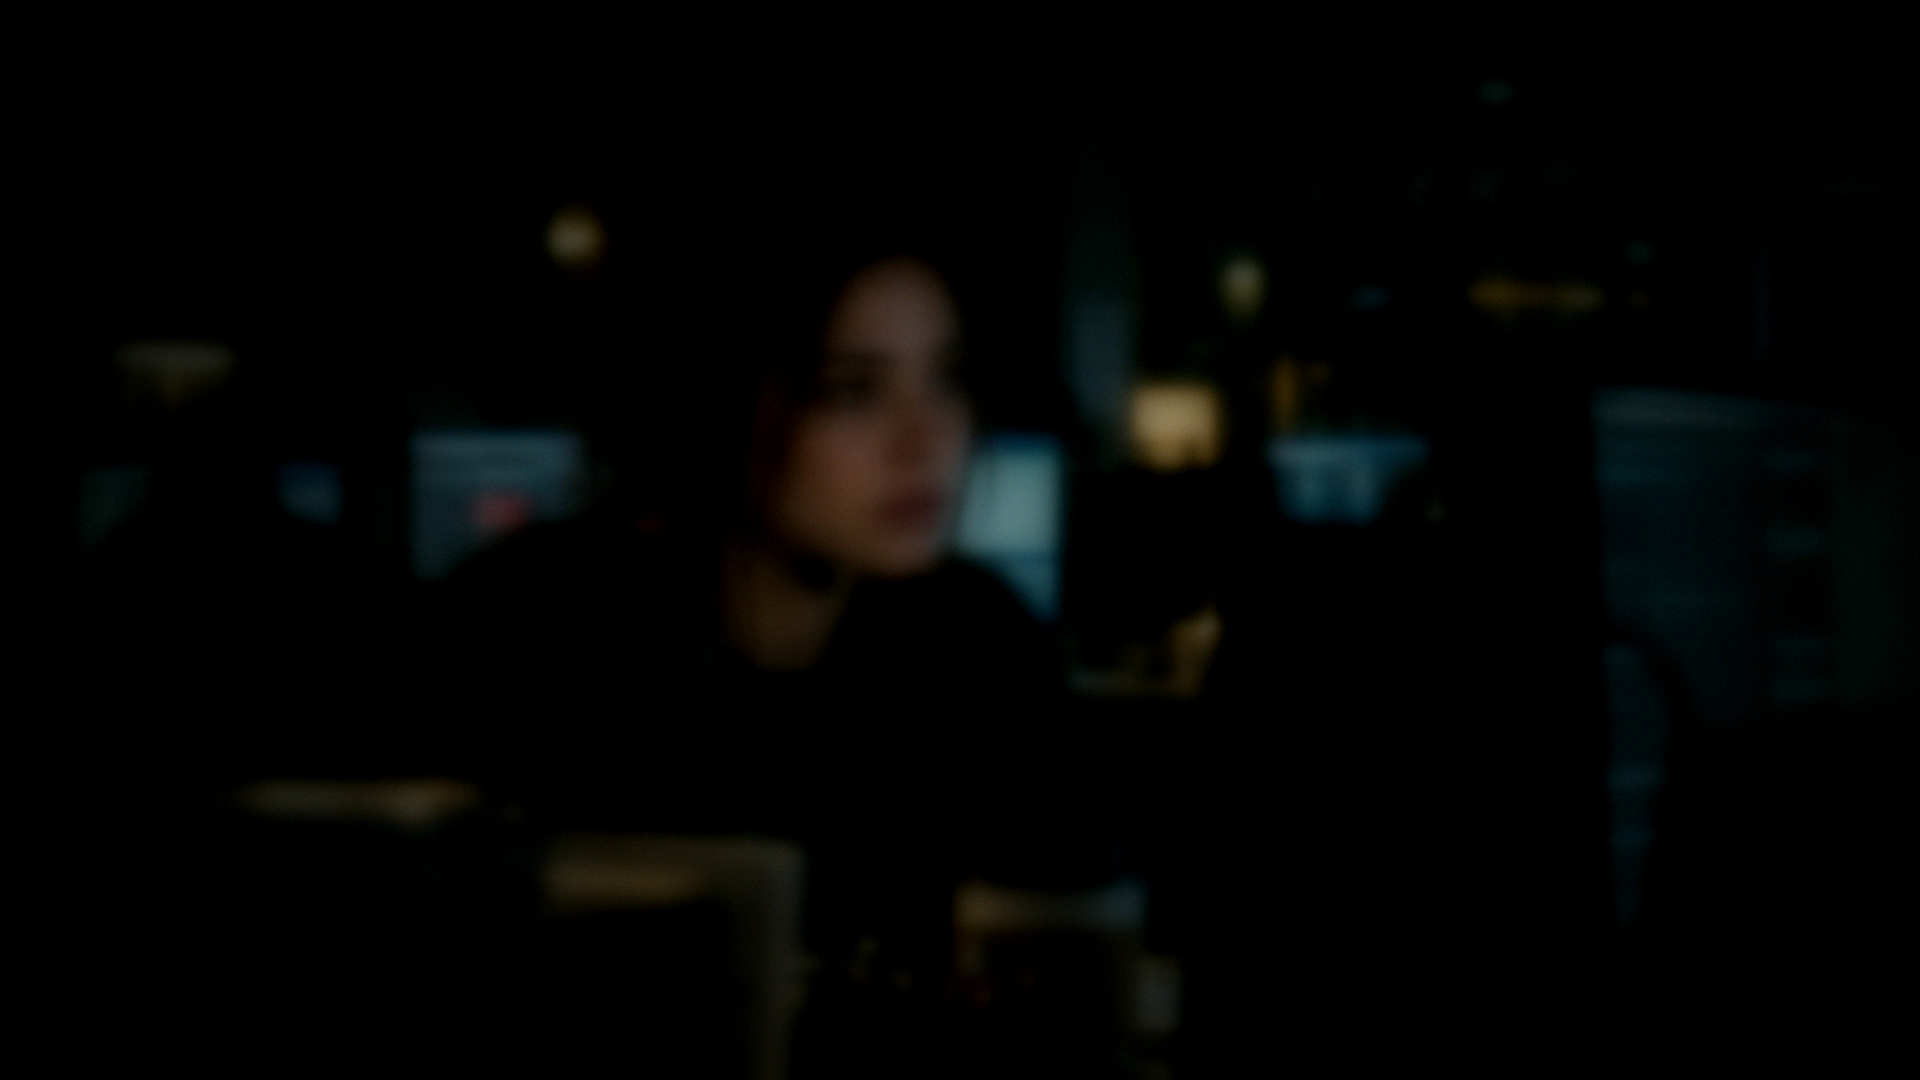
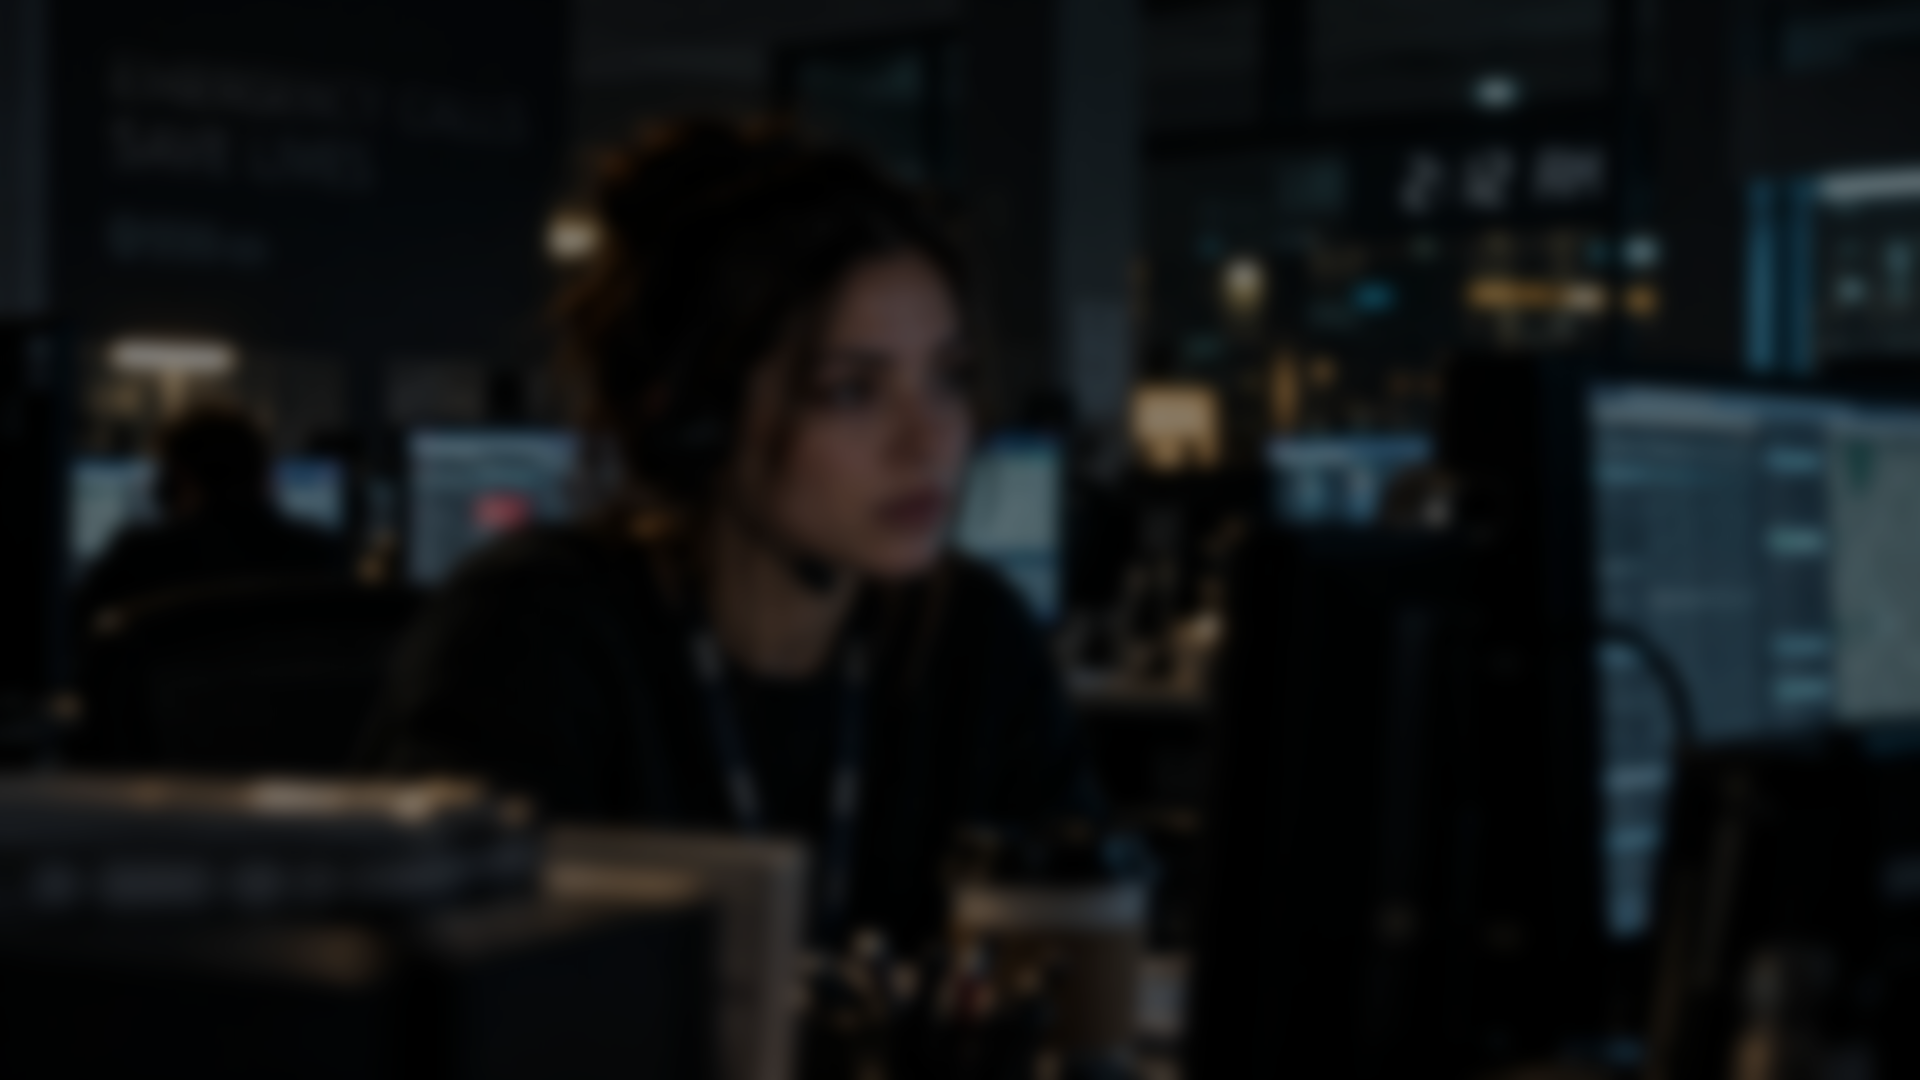
Make the case screens easier to read and the backdrop more visible
Bigger header, footer hints, page text and RESTRICTED stamp; the
call-centre backdrop is rebuilt brighter with a lighter menu shade.

Claude-Session: https://claude.ai/code/session_01AUZqanWzAM95fnTVhz4g3Y

diff --git a/Source/ColdCase/Private/UI/SInvestigationScreen.cpp b/Source/ColdCase/Private/UI/SInvestigationScreen.cpp
@@ -33,7 +33,7 @@ namespace InvestigationScreenPrivate
 	const FLinearColor TextMenu(0.76f, 0.78f, 0.80f, 1.f);
 	const FLinearColor TextDim(0.50f, 0.54f, 0.58f, 1.f);
 	const FLinearColor Ink(0.09f, 0.085f, 0.08f, 1.f);
-	const FLinearColor StampRed(0.55f, 0.10f, 0.08f, 0.75f);
+	const FLinearColor StampRed(0.62f, 0.10f, 0.08f, 0.9f);
 
 	FSlateFontInfo TypedFont(int32 Size) { return FCoreStyle::GetDefaultFontStyle("Mono", Size); }
 
@@ -827,7 +827,7 @@ void SInvestigationScreen::RebuildWidgets()
 			[
 				SNew(STextBlock)
 				.Text(FText::FromString(Body))
-				.Font(TypedFont(14))
+				.Font(TypedFont(17))
 				.ColorAndOpacity(FSlateColor(BodyColour))
 				.AutoWrapText(true)
 			];
@@ -842,7 +842,7 @@ void SInvestigationScreen::RebuildWidgets()
 				[
 					SNew(STextBlock)
 					.Text(FText::FromString(Body))
-					.Font(TypedFont(14))
+					.Font(TypedFont(17))
 					.LineHeightPercentage(1.15f)
 					.ColorAndOpacity(FSlateColor(BodyColour))
 					.AutoWrapText(true)
@@ -955,7 +955,7 @@ void SInvestigationScreen::RebuildWidgets()
 			[
 				SNew(STextBlock)
 				.Text(FText::FromString(TEXT("MAJOR CRIME REVIEW  /  CASE FILE")))
-				.Font(TypedFont(11))
+				.Font(TypedFont(15))
 				.ColorAndOpacity(FSlateColor(Accent))
 			]
 
@@ -1032,7 +1032,7 @@ void SInvestigationScreen::RebuildWidgets()
 						SNew(STextBlock)
 						.Visibility(bPaper ? EVisibility::HitTestInvisible : EVisibility::Collapsed)
 						.Text(FText::FromString(TEXT("RESTRICTED")))
-						.Font(TypedFont(12))
+						.Font(TypedFont(20))
 						.ColorAndOpacity(FSlateColor(StampRed))
 						.RenderTransformPivot(FVector2D(0.5f, 0.5f))
 						.RenderTransform(FSlateRenderTransform(FQuat2D(FMath::DegreesToRadians(-6.f))))
@@ -1046,8 +1046,8 @@ void SInvestigationScreen::RebuildWidgets()
 			[
 				SNew(STextBlock)
 				.Text(FText::FromString(TEXT("MOVE  arrows / d-pad      CHOOSE  Enter / A      BACK  Esc / B")))
-				.Font(TypedFont(10))
-				.ColorAndOpacity(FSlateColor(TextDim))
+				.Font(TypedFont(14))
+				.ColorAndOpacity(FSlateColor(TextMenu))
 			]
 		]
 	];

diff --git a/Source/ColdCase/Private/UI/SInvestigationScreen.h b/Source/ColdCase/Private/UI/SInvestigationScreen.h
@@ -143,7 +143,7 @@ private:
 	/** The case-file look: a darkened photograph behind everything, and the page text typed on paper. */
 	TSharedPtr<FSlateDynamicImageBrush> BackdropBrush;
 	TSharedPtr<FSlateDynamicImageBrush> PaperBrush;
-	FSlateColorBrush ShadeBrush = FSlateColorBrush(FLinearColor(0.f, 0.f, 0.f, 0.55f));
+	FSlateColorBrush ShadeBrush = FSlateColorBrush(FLinearColor(0.f, 0.f, 0.f, 0.45f));
 	FSlateColorBrush AccentBrush = FSlateColorBrush(FLinearColor(0.78f, 0.52f, 0.22f, 1.f));
 	FSlateColorBrush FilmBackgroundBrush = FSlateColorBrush(FLinearColor::Black);
 	FSlateColorBrush PanelBrush = FSlateColorBrush(FLinearColor(0.03f, 0.035f, 0.045f, 1.f));
